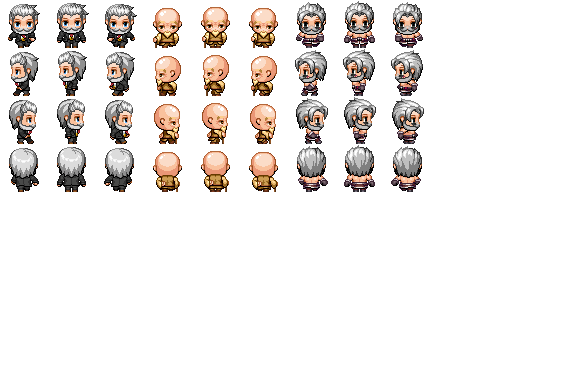
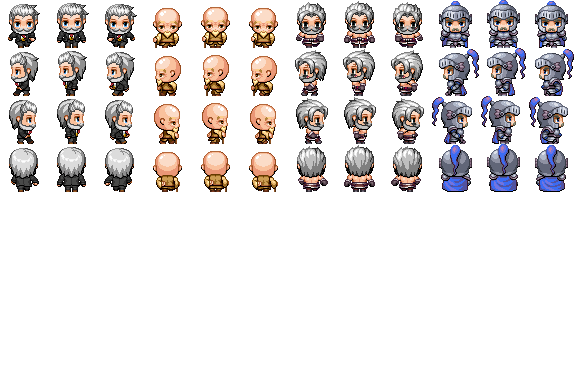
added Tellurian Knight/Soldier actors
added credit for Haydeos and ct_bolt

Changed region(s): [[0.75, 0.0, 1.0, 0.5]]

diff --git a/js/plugins.js b/js/plugins.js
@@ -123,7 +123,7 @@ var $plugins =
 {"name":"YEP_CommonEventMenu","status":true,"description":"v1.04 This plugin allows the creation of windows to call\ncommon events with.","parameters":{"---Defaults---":"","Default Icon":"188","Default Help":"Use <Help Description> comment tag to add a help description.","Default Subtext":"Subtext here!","Default Cancel Event":"0","---Main Settings---":"","Window X":"0","Window Y":"this.fittingHeight(2)","Window Width":"Graphics.boxWidth / 2","Window Height":"Graphics.boxHeight - this.fittingHeight(2)","Window Columns":"1","Window Opacity":"255","---Help Settings---":"","Show Help":"true","Help X":"0","Help Y":"0","Help Width":"Graphics.boxWidth","Help Height":"this.fittingHeight(2)","Help Opacity":"255","---Picture Settings---":"","Show Picture":"true","Picture X":"Graphics.boxWidth / 2","Picture Y":"this.fittingHeight(2)","Picture Width":"Graphics.boxWidth / 2","Picture Height":"this.fittingHeight(10)","Picture Opacity":"255","---Subtext Settings---":"","Show Subtext":"true","Subtext X":"Graphics.boxWidth / 2","Subtext Y":"Graphics.boxHeight - height","Subtext Width":"Graphics.boxWidth / 2","Subtext Height":"Graphics.boxHeight - this.fittingHeight(2) - this.fittingHeight(10)","Subtext Opacity":"255"}},
 {"name":"YEP_X_CEMSetupPack1","status":true,"description":"v1.00 (Requires YEP_CommonEventMenu.js) Adds more setups\nto use with the Common Event Menu.","parameters":{}},
 {"name":"YEP_X_CEMSetupPack2","status":true,"description":"v1.01 (Requires YEP_CommonEventMenu.js) Adds more setups\nto use with the Common Event Menu.","parameters":{}},
-{"name":"YEP_CreditsPage","status":true,"description":"v1.02 Adds a 'Credits' command to the title screen that\r\nwill take the player to a credits scene.","parameters":{"---General---":"","Command Name":"Credits","---Credit Lines---":"","Line 1 Text":"(Pressing SPACE on some entries redirects you to the source.)","Line 1 URL":"","Line 2 Text":"\\c[14]--- Trail Engineers ---","Line 2 URL":"","Line 3 Text":"\\c[4]AP / NoLongerLucky\\c[0] - Project Lead, Programmer, Musician","Line 3 URL":"https://linktr.ee/aponthebeat","Line 4 Text":"\\c[4]bronden\\c[0] - Original Concepts, Bug Hunter","Line 4 URL":"https://medal.tv/users/6971131","Line 5 Text":"","Line 5 URL":"","Line 6 Text":"","Line 6 URL":"","Line 7 Text":"","Line 7 URL":"","Line 8 Text":"","Line 8 URL":"","Line 9 Text":"","Line 9 URL":"","Line 10 Text":"","Line 10 URL":"","Line 11 Text":"\\c[14]--- Graphics ---","Line 11 URL":"","Line 12 Text":"\\c[4]Chalkdust","Line 12 URL":"https://forums.rpgmakerweb.com/index.php?threads/chalkdust-resources.47335/","Line 13 Text":"\\c[4]Aleph Null","Line 13 URL":"https://forums.rpgmakerweb.com/index.php?threads/aleph-nulls-resources-update-7-3-16-weapon-icons.63331/","Line 14 Text":"\\c[4]KaiWeWi","Line 14 URL":"https://forums.rpgmakerweb.com/index.php?threads/kais-resources-for-mv.78751/","Line 15 Text":"\\c[4]whtdragon","Line 15 URL":"https://forums.rpgmakerweb.com/index.php?threads/whtdragons-animals-and-running-horses-now-with-more-dragons.53552/","Line 16 Text":"\\c[4]Avery","Line 16 URL":"https://forums.rpgmakerweb.com/index.php?threads/avys-mv-stuff.53317/","Line 17 Text":"\\c[4]hiddenone","Line 17 URL":"https://www.hiddenone-sprites.com/other-mv-resources.html","Line 18 Text":"\\c[4]Bokou","Line 18 URL":"https://forums.rpgmakerweb.com/index.php?threads/bokous-freesources-added-gothic-tileset.48613/","Line 19 Text":"\\c[4]RavenBlackbird","Line 19 URL":"https://forums.rpgmakerweb.com/index.php?threads/sprited-sv_enemies.60465/","Line 20 Text":"\\c[4]PandaMaru","Line 20 URL":"https://forums.rpgmakerweb.com/index.php?threads/marus-mv-bits.46811/","Line 21 Text":"\\c[4]byBibo","Line 21 URL":"https://forums.rpgmakerweb.com/index.php?threads/bybibos-special-packs-1-christmas-pack-update-1.53582/","Line 22 Text":"\\c[4]Thalzon","Line 22 URL":"https://forums.rpgmakerweb.com/index.php?threads/thalzons-mv-battlers.46685/","Line 23 Text":"","Line 23 URL":"","Line 24 Text":"","Line 24 URL":"","Line 25 Text":"","Line 25 URL":"","Line 26 Text":"","Line 26 URL":"","Line 27 Text":"","Line 27 URL":"","Line 28 Text":"","Line 28 URL":"","Line 29 Text":"","Line 29 URL":"","Line 30 Text":"","Line 30 URL":"","Line 31 Text":"","Line 31 URL":"","Line 32 Text":"","Line 32 URL":"","Line 33 Text":"","Line 33 URL":"","Line 34 Text":"","Line 34 URL":"","Line 35 Text":"","Line 35 URL":"","Line 36 Text":"","Line 36 URL":"","Line 37 Text":"","Line 37 URL":"","Line 38 Text":"","Line 38 URL":"","Line 39 Text":"","Line 39 URL":"","Line 40 Text":"","Line 40 URL":"","Line 41 Text":"\\c[14]--- Plugins ---","Line 41 URL":"","Line 42 Text":"\\c[4]Yanfly\\c[0]","Line 42 URL":"http://yanfly.moe","Line 43 Text":"\\c[4]Fallen Angel Olivia","Line 43 URL":"https://fallenangelolivia.itch.io","Line 44 Text":"\\c[4]DreamX","Line 44 URL":"https://raw.githubusercontent.com/DreamXRMMV/Rpg-Maker-MV/master/DreamX_BattleSE.js","Line 45 Text":"\\c[4]Mr. Trivel","Line 45 URL":"https://mrtrivelrpg.wordpress.com/","Line 46 Text":"\\c[4]Azel","Line 46 URL":"https://forums.rpgmakerweb.com/index.php?threads/lgp-better-damage-popup.97679/","Line 47 Text":"\\c[4]Casper Gaming","Line 47 URL":"http://www.caspergaming.com/dev/cgmv/","Line 48 Text":"\\c[4]SumRndmDde","Line 48 URL":"http://sumrndm.site","Line 49 Text":"\\c[4]Melosx","Line 49 URL":"https://forums.rpgmakerweb.com/index.php?threads/msx-alphabetical-sort.73991/","Line 50 Text":"\\c[4]Moghunter (Atelier RGSS)","Line 50 URL":"https://atelierrgss.wordpress.com/","Line 51 Text":"\\c[4]RPG Maker Irina","Line 51 URL":"https://atelieririna.itch.io","Line 52 Text":"\\c[4]Galv","Line 52 URL":"https://galvs-scripts.com/","Line 53 Text":"\\c[4]Sparckman","Line 53 URL":"https://sparckmantutorials.weebly.com/rpg-maker.html","Line 54 Text":"\\c[4]Neon Black","Line 54 URL":"https://forums.rpgmakerweb.com/index.php?threads/neon-blacks-large-sprite-fix.50274/","Line 55 Text":"\\c[4]Shaz","Line 55 URL":"https://forums.rpgmakerweb.com/index.php?threads/neon-blacks-large-sprite-fix.50274/","Line 56 Text":"\\c[4]Aloe Guvner","Line 56 URL":"https://forums.rpgmakerweb.com/index.php?threads/yep-extensions-by-aloe-guvner.95141/","Line 57 Text":"\\c[4]Boris \"Blizzard\" Mikić","Line 57 URL":"https://forums.rpgmakerweb.com/index.php?threads/ultra-mode-7.94100/","Line 58 Text":"\\c[4]Tsumio","Line 58 URL":"https://forums.rpgmakerweb.com/index.php?threads/skippartycommand.102821/","Line 59 Text":"\\c[4]Azel","Line 59 URL":"https://forums.rpgmakerweb.com/index.php?threads/lgp-better-damage-popup.97679/","Line 60 Text":"\\c[4]AceOfAces","Line 60 URL":"https://forums.rpgmakerweb.com/index.php?threads/hp-color-controller.74386/","Line 61 Text":"\\c[4]Masked","Line 61 URL":"https://forums.rpgmakerweb.com/index.php?threads/mbs-sound-emittance.52718/","Line 62 Text":"\\c[4]Hudell","Line 62 URL":"https://hudell.com/","Line 63 Text":"\\c[4]YoraeRasante","Line 63 URL":"https://forums.rpgmakerweb.com/index.php?threads/changing-gauges.69200/post-657427","Line 64 Text":"","Line 64 URL":"","Line 65 Text":"","Line 65 URL":"","Line 66 Text":"","Line 66 URL":"","Line 67 Text":"","Line 67 URL":"","Line 68 Text":"","Line 68 URL":"","Line 69 Text":"","Line 69 URL":"","Line 70 Text":"","Line 70 URL":"","Line 71 Text":"\\c[14]--- Recognized Contributors ---","Line 71 URL":"","Line 72 Text":"Thanks to \\c[4]everyone who contributed\\c[0]!","Line 72 URL":"","Line 73 Text":"\\c[4]ApocalypseGamer1\\c[0] - Musician, Ex-Artist","Line 73 URL":"https://www.youtube.com/channel/UCKRS50y0u8u6r7OymPBUt_A","Line 74 Text":"\\c[4]ascent_\\c[0] - Linux Port","Line 74 URL":"https://www.youtube.com/channel/UCMwZYN38lXBn_XzUuNmgvAw","Line 75 Text":"","Line 75 URL":"","Line 76 Text":"","Line 76 URL":"","Line 77 Text":"","Line 77 URL":"","Line 78 Text":"","Line 78 URL":"","Line 79 Text":"","Line 79 URL":"","Line 80 Text":"","Line 80 URL":"","Line 81 Text":"","Line 81 URL":"","Line 82 Text":"","Line 82 URL":"","Line 83 Text":"","Line 83 URL":"","Line 84 Text":"","Line 84 URL":"","Line 85 Text":"","Line 85 URL":"","Line 86 Text":"","Line 86 URL":"","Line 87 Text":"","Line 87 URL":"","Line 88 Text":"","Line 88 URL":"","Line 89 Text":"","Line 89 URL":"","Line 90 Text":"","Line 90 URL":"","Line 91 Text":"\\c[14]--- Acknowledgements ---","Line 91 URL":"","Line 92 Text":"Thanks to \\c[4]everyone who helped test the game\\c[0]!","Line 92 URL":"","Line 93 Text":"Check out our \\c[16]Discord\\c[0] at \\c[4]https://discord.gg/zYRjnpSKBx","Line 93 URL":"https://discord.gg/zYRjnpSKBx","Line 94 Text":"The \\c[16]Discord\\c[0] is the best way to reach the developers and chat with the community.","Line 94 URL":"","Line 95 Text":"","Line 95 URL":"","Line 96 Text":"","Line 96 URL":"","Line 97 Text":"","Line 97 URL":"","Line 98 Text":"","Line 98 URL":"","Line 99 Text":"","Line 99 URL":"","Line 100 Text":"","Line 100 URL":"","Line 101 Text":"","Line 101 URL":"","Line 102 Text":"","Line 102 URL":"","Line 103 Text":"","Line 103 URL":"","Line 104 Text":"","Line 104 URL":"","Line 105 Text":"","Line 105 URL":"","Line 106 Text":"","Line 106 URL":"","Line 107 Text":"","Line 107 URL":"","Line 108 Text":"","Line 108 URL":"","Line 109 Text":"","Line 109 URL":"","Line 110 Text":"","Line 110 URL":"","Line 111 Text":"","Line 111 URL":"","Line 112 Text":"","Line 112 URL":"","Line 113 Text":"","Line 113 URL":"","Line 114 Text":"","Line 114 URL":"","Line 115 Text":"","Line 115 URL":"","Line 116 Text":"","Line 116 URL":"","Line 117 Text":"","Line 117 URL":"","Line 118 Text":"","Line 118 URL":"","Line 119 Text":"","Line 119 URL":"","Line 120 Text":"","Line 120 URL":"","Line 121 Text":"","Line 121 URL":"","Line 122 Text":"","Line 122 URL":"","Line 123 Text":"","Line 123 URL":"","Line 124 Text":"","Line 124 URL":"","Line 125 Text":"","Line 125 URL":"","Line 126 Text":"","Line 126 URL":"","Line 127 Text":"","Line 127 URL":"","Line 128 Text":"","Line 128 URL":"","Line 129 Text":"","Line 129 URL":"","Line 130 Text":"","Line 130 URL":"","Line 131 Text":"","Line 131 URL":"","Line 132 Text":"","Line 132 URL":"","Line 133 Text":"","Line 133 URL":"","Line 134 Text":"","Line 134 URL":"","Line 135 Text":"","Line 135 URL":"","Line 136 Text":"","Line 136 URL":"","Line 137 Text":"","Line 137 URL":"","Line 138 Text":"","Line 138 URL":"","Line 139 Text":"","Line 139 URL":"","Line 140 Text":"","Line 140 URL":"","Line 141 Text":"","Line 141 URL":"","Line 142 Text":"","Line 142 URL":"","Line 143 Text":"","Line 143 URL":"","Line 144 Text":"","Line 144 URL":"","Line 145 Text":"","Line 145 URL":"","Line 146 Text":"","Line 146 URL":"","Line 147 Text":"","Line 147 URL":"","Line 148 Text":"","Line 148 URL":"","Line 149 Text":"","Line 149 URL":"","Line 150 Text":"","Line 150 URL":"","Line 151 Text":"","Line 151 URL":"","Line 152 Text":"","Line 152 URL":"","Line 153 Text":"","Line 153 URL":"","Line 154 Text":"","Line 154 URL":"","Line 155 Text":"","Line 155 URL":"","Line 156 Text":"","Line 156 URL":"","Line 157 Text":"","Line 157 URL":"","Line 158 Text":"","Line 158 URL":"","Line 159 Text":"","Line 159 URL":"","Line 160 Text":"","Line 160 URL":"","Line 161 Text":"","Line 161 URL":"","Line 162 Text":"","Line 162 URL":"","Line 163 Text":"","Line 163 URL":"","Line 164 Text":"","Line 164 URL":"","Line 165 Text":"","Line 165 URL":"","Line 166 Text":"","Line 166 URL":"","Line 167 Text":"","Line 167 URL":"","Line 168 Text":"","Line 168 URL":"","Line 169 Text":"","Line 169 URL":"","Line 170 Text":"","Line 170 URL":"","Line 171 Text":"","Line 171 URL":"","Line 172 Text":"","Line 172 URL":"","Line 173 Text":"","Line 173 URL":"","Line 174 Text":"","Line 174 URL":"","Line 175 Text":"","Line 175 URL":"","Line 176 Text":"","Line 176 URL":"","Line 177 Text":"","Line 177 URL":"","Line 178 Text":"","Line 178 URL":"","Line 179 Text":"","Line 179 URL":"","Line 180 Text":"","Line 180 URL":"","Line 181 Text":"","Line 181 URL":"","Line 182 Text":"","Line 182 URL":"","Line 183 Text":"","Line 183 URL":"","Line 184 Text":"","Line 184 URL":"","Line 185 Text":"","Line 185 URL":"","Line 186 Text":"","Line 186 URL":"","Line 187 Text":"","Line 187 URL":"","Line 188 Text":"","Line 188 URL":"","Line 189 Text":"","Line 189 URL":"","Line 190 Text":"","Line 190 URL":"","Line 191 Text":"","Line 191 URL":"","Line 192 Text":"","Line 192 URL":"","Line 193 Text":"","Line 193 URL":"","Line 194 Text":"","Line 194 URL":"","Line 195 Text":"","Line 195 URL":"","Line 196 Text":"","Line 196 URL":"","Line 197 Text":"","Line 197 URL":"","Line 198 Text":"","Line 198 URL":"","Line 199 Text":"","Line 199 URL":"","Line 200 Text":"","Line 200 URL":"","Line 201 Text":"","Line 201 URL":"","Line 202 Text":"","Line 202 URL":"","Line 203 Text":"","Line 203 URL":"","Line 204 Text":"","Line 204 URL":"","Line 205 Text":"","Line 205 URL":"","Line 206 Text":"","Line 206 URL":"","Line 207 Text":"","Line 207 URL":"","Line 208 Text":"","Line 208 URL":"","Line 209 Text":"","Line 209 URL":"","Line 210 Text":"","Line 210 URL":"","Line 211 Text":"","Line 211 URL":"","Line 212 Text":"","Line 212 URL":"","Line 213 Text":"","Line 213 URL":"","Line 214 Text":"","Line 214 URL":"","Line 215 Text":"","Line 215 URL":"","Line 216 Text":"","Line 216 URL":"","Line 217 Text":"","Line 217 URL":"","Line 218 Text":"","Line 218 URL":"","Line 219 Text":"","Line 219 URL":"","Line 220 Text":"","Line 220 URL":"","Line 221 Text":"","Line 221 URL":"","Line 222 Text":"","Line 222 URL":"","Line 223 Text":"","Line 223 URL":"","Line 224 Text":"","Line 224 URL":"","Line 225 Text":"","Line 225 URL":"","Line 226 Text":"","Line 226 URL":"","Line 227 Text":"","Line 227 URL":"","Line 228 Text":"","Line 228 URL":"","Line 229 Text":"","Line 229 URL":"","Line 230 Text":"","Line 230 URL":"","Line 231 Text":"","Line 231 URL":"","Line 232 Text":"","Line 232 URL":"","Line 233 Text":"","Line 233 URL":"","Line 234 Text":"","Line 234 URL":"","Line 235 Text":"","Line 235 URL":"","Line 236 Text":"","Line 236 URL":"","Line 237 Text":"","Line 237 URL":"","Line 238 Text":"","Line 238 URL":"","Line 239 Text":"","Line 239 URL":"","Line 240 Text":"","Line 240 URL":"","Line 241 Text":"","Line 241 URL":"","Line 242 Text":"","Line 242 URL":"","Line 243 Text":"","Line 243 URL":"","Line 244 Text":"","Line 244 URL":"","Line 245 Text":"","Line 245 URL":"","Line 246 Text":"","Line 246 URL":"","Line 247 Text":"","Line 247 URL":"","Line 248 Text":"","Line 248 URL":"","Line 249 Text":"","Line 249 URL":"","Line 250 Text":"","Line 250 URL":"","Line 251 Text":"","Line 251 URL":"","Line 252 Text":"","Line 252 URL":"","Line 253 Text":"","Line 253 URL":"","Line 254 Text":"","Line 254 URL":"","Line 255 Text":"","Line 255 URL":"","Line 256 Text":"","Line 256 URL":"","Line 257 Text":"","Line 257 URL":"","Line 258 Text":"","Line 258 URL":"","Line 259 Text":"","Line 259 URL":"","Line 260 Text":"","Line 260 URL":"","Line 261 Text":"","Line 261 URL":"","Line 262 Text":"","Line 262 URL":"","Line 263 Text":"","Line 263 URL":"","Line 264 Text":"","Line 264 URL":"","Line 265 Text":"","Line 265 URL":"","Line 266 Text":"","Line 266 URL":"","Line 267 Text":"","Line 267 URL":"","Line 268 Text":"","Line 268 URL":"","Line 269 Text":"","Line 269 URL":"","Line 270 Text":"","Line 270 URL":"","Line 271 Text":"","Line 271 URL":"","Line 272 Text":"","Line 272 URL":"","Line 273 Text":"","Line 273 URL":"","Line 274 Text":"","Line 274 URL":"","Line 275 Text":"","Line 275 URL":"","Line 276 Text":"","Line 276 URL":"","Line 277 Text":"","Line 277 URL":"","Line 278 Text":"","Line 278 URL":"","Line 279 Text":"","Line 279 URL":"","Line 280 Text":"","Line 280 URL":"","Line 281 Text":"","Line 281 URL":"","Line 282 Text":"","Line 282 URL":"","Line 283 Text":"","Line 283 URL":"","Line 284 Text":"","Line 284 URL":"","Line 285 Text":"","Line 285 URL":"","Line 286 Text":"","Line 286 URL":"","Line 287 Text":"","Line 287 URL":"","Line 288 Text":"","Line 288 URL":"","Line 289 Text":"","Line 289 URL":"","Line 290 Text":"","Line 290 URL":"","Line 291 Text":"","Line 291 URL":"","Line 292 Text":"","Line 292 URL":"","Line 293 Text":"","Line 293 URL":"","Line 294 Text":"","Line 294 URL":"","Line 295 Text":"","Line 295 URL":"","Line 296 Text":"","Line 296 URL":"","Line 297 Text":"","Line 297 URL":"","Line 298 Text":"","Line 298 URL":"","Line 299 Text":"","Line 299 URL":"","Line 300 Text":"","Line 300 URL":""}},
+{"name":"YEP_CreditsPage","status":true,"description":"v1.02 Adds a 'Credits' command to the title screen that\r\nwill take the player to a credits scene.","parameters":{"---General---":"","Command Name":"Credits","---Credit Lines---":"","Line 1 Text":"(Pressing SPACE on some entries redirects you to the source.)","Line 1 URL":"","Line 2 Text":"\\c[14]--- Trail Engineers ---","Line 2 URL":"","Line 3 Text":"\\c[4]AP / NoLongerLucky\\c[0] - Project Lead, Programmer, Musician","Line 3 URL":"https://linktr.ee/aponthebeat","Line 4 Text":"\\c[4]bronden\\c[0] - Original Concepts, Bug Hunter","Line 4 URL":"https://medal.tv/users/6971131","Line 5 Text":"","Line 5 URL":"","Line 6 Text":"","Line 6 URL":"","Line 7 Text":"","Line 7 URL":"","Line 8 Text":"","Line 8 URL":"","Line 9 Text":"","Line 9 URL":"","Line 10 Text":"","Line 10 URL":"","Line 11 Text":"\\c[14]--- Graphics ---","Line 11 URL":"","Line 12 Text":"\\c[4]Chalkdust","Line 12 URL":"https://forums.rpgmakerweb.com/index.php?threads/chalkdust-resources.47335/","Line 13 Text":"\\c[4]Aleph Null","Line 13 URL":"https://forums.rpgmakerweb.com/index.php?threads/aleph-nulls-resources-update-7-3-16-weapon-icons.63331/","Line 14 Text":"\\c[4]KaiWeWi","Line 14 URL":"https://forums.rpgmakerweb.com/index.php?threads/kais-resources-for-mv.78751/","Line 15 Text":"\\c[4]whtdragon","Line 15 URL":"https://forums.rpgmakerweb.com/index.php?threads/whtdragons-animals-and-running-horses-now-with-more-dragons.53552/","Line 16 Text":"\\c[4]Avery","Line 16 URL":"https://forums.rpgmakerweb.com/index.php?threads/avys-mv-stuff.53317/","Line 17 Text":"\\c[4]hiddenone","Line 17 URL":"https://www.hiddenone-sprites.com/other-mv-resources.html","Line 18 Text":"\\c[4]Bokou","Line 18 URL":"https://forums.rpgmakerweb.com/index.php?threads/bokous-freesources-added-gothic-tileset.48613/","Line 19 Text":"\\c[4]RavenBlackbird","Line 19 URL":"https://forums.rpgmakerweb.com/index.php?threads/sprited-sv_enemies.60465/","Line 20 Text":"\\c[4]PandaMaru","Line 20 URL":"https://forums.rpgmakerweb.com/index.php?threads/marus-mv-bits.46811/","Line 21 Text":"\\c[4]byBibo","Line 21 URL":"https://forums.rpgmakerweb.com/index.php?threads/bybibos-special-packs-1-christmas-pack-update-1.53582/","Line 22 Text":"\\c[4]Thalzon","Line 22 URL":"https://forums.rpgmakerweb.com/index.php?threads/thalzons-mv-battlers.46685/","Line 23 Text":"\\c[4]Haydeos","Line 23 URL":"https://forums.rpgmakerweb.com/index.php?threads/materials-by-haydeos.47400/","Line 24 Text":"\\c[4]ct_bolt","Line 24 URL":"https://forums.rpgmakerweb.com/index.php?threads/looking-for-sv-actor-of-people3_7-the-captain-mv.121886/","Line 25 Text":"","Line 25 URL":"","Line 26 Text":"","Line 26 URL":"","Line 27 Text":"","Line 27 URL":"","Line 28 Text":"","Line 28 URL":"","Line 29 Text":"","Line 29 URL":"","Line 30 Text":"","Line 30 URL":"","Line 31 Text":"","Line 31 URL":"","Line 32 Text":"","Line 32 URL":"","Line 33 Text":"","Line 33 URL":"","Line 34 Text":"","Line 34 URL":"","Line 35 Text":"","Line 35 URL":"","Line 36 Text":"","Line 36 URL":"","Line 37 Text":"","Line 37 URL":"","Line 38 Text":"","Line 38 URL":"","Line 39 Text":"","Line 39 URL":"","Line 40 Text":"","Line 40 URL":"","Line 41 Text":"\\c[14]--- Plugins ---","Line 41 URL":"","Line 42 Text":"\\c[4]Yanfly\\c[0]","Line 42 URL":"http://yanfly.moe","Line 43 Text":"\\c[4]Fallen Angel Olivia","Line 43 URL":"https://fallenangelolivia.itch.io","Line 44 Text":"\\c[4]DreamX","Line 44 URL":"https://raw.githubusercontent.com/DreamXRMMV/Rpg-Maker-MV/master/DreamX_BattleSE.js","Line 45 Text":"\\c[4]Mr. Trivel","Line 45 URL":"https://mrtrivelrpg.wordpress.com/","Line 46 Text":"\\c[4]Azel","Line 46 URL":"https://forums.rpgmakerweb.com/index.php?threads/lgp-better-damage-popup.97679/","Line 47 Text":"\\c[4]Casper Gaming","Line 47 URL":"http://www.caspergaming.com/dev/cgmv/","Line 48 Text":"\\c[4]SumRndmDde","Line 48 URL":"http://sumrndm.site","Line 49 Text":"\\c[4]Melosx","Line 49 URL":"https://forums.rpgmakerweb.com/index.php?threads/msx-alphabetical-sort.73991/","Line 50 Text":"\\c[4]Moghunter (Atelier RGSS)","Line 50 URL":"https://atelierrgss.wordpress.com/","Line 51 Text":"\\c[4]RPG Maker Irina","Line 51 URL":"https://atelieririna.itch.io","Line 52 Text":"\\c[4]Galv","Line 52 URL":"https://galvs-scripts.com/","Line 53 Text":"\\c[4]Sparckman","Line 53 URL":"https://sparckmantutorials.weebly.com/rpg-maker.html","Line 54 Text":"\\c[4]Neon Black","Line 54 URL":"https://forums.rpgmakerweb.com/index.php?threads/neon-blacks-large-sprite-fix.50274/","Line 55 Text":"\\c[4]Shaz","Line 55 URL":"https://forums.rpgmakerweb.com/index.php?threads/neon-blacks-large-sprite-fix.50274/","Line 56 Text":"\\c[4]Aloe Guvner","Line 56 URL":"https://forums.rpgmakerweb.com/index.php?threads/yep-extensions-by-aloe-guvner.95141/","Line 57 Text":"\\c[4]Boris \"Blizzard\" Mikić","Line 57 URL":"https://forums.rpgmakerweb.com/index.php?threads/ultra-mode-7.94100/","Line 58 Text":"\\c[4]Tsumio","Line 58 URL":"https://forums.rpgmakerweb.com/index.php?threads/skippartycommand.102821/","Line 59 Text":"\\c[4]Azel","Line 59 URL":"https://forums.rpgmakerweb.com/index.php?threads/lgp-better-damage-popup.97679/","Line 60 Text":"\\c[4]AceOfAces","Line 60 URL":"https://forums.rpgmakerweb.com/index.php?threads/hp-color-controller.74386/","Line 61 Text":"\\c[4]Masked","Line 61 URL":"https://forums.rpgmakerweb.com/index.php?threads/mbs-sound-emittance.52718/","Line 62 Text":"\\c[4]Hudell","Line 62 URL":"https://hudell.com/","Line 63 Text":"\\c[4]YoraeRasante","Line 63 URL":"https://forums.rpgmakerweb.com/index.php?threads/changing-gauges.69200/post-657427","Line 64 Text":"","Line 64 URL":"","Line 65 Text":"","Line 65 URL":"","Line 66 Text":"","Line 66 URL":"","Line 67 Text":"","Line 67 URL":"","Line 68 Text":"","Line 68 URL":"","Line 69 Text":"","Line 69 URL":"","Line 70 Text":"","Line 70 URL":"","Line 71 Text":"\\c[14]--- Recognized Contributors ---","Line 71 URL":"","Line 72 Text":"Thanks to \\c[4]everyone who contributed\\c[0]!","Line 72 URL":"","Line 73 Text":"\\c[4]ApocalypseGamer1\\c[0] - Musician, Ex-Artist","Line 73 URL":"https://www.youtube.com/channel/UCKRS50y0u8u6r7OymPBUt_A","Line 74 Text":"\\c[4]ascent_\\c[0] - Linux Port","Line 74 URL":"https://www.youtube.com/channel/UCMwZYN38lXBn_XzUuNmgvAw","Line 75 Text":"","Line 75 URL":"","Line 76 Text":"","Line 76 URL":"","Line 77 Text":"","Line 77 URL":"","Line 78 Text":"","Line 78 URL":"","Line 79 Text":"","Line 79 URL":"","Line 80 Text":"","Line 80 URL":"","Line 81 Text":"","Line 81 URL":"","Line 82 Text":"","Line 82 URL":"","Line 83 Text":"","Line 83 URL":"","Line 84 Text":"","Line 84 URL":"","Line 85 Text":"","Line 85 URL":"","Line 86 Text":"","Line 86 URL":"","Line 87 Text":"","Line 87 URL":"","Line 88 Text":"","Line 88 URL":"","Line 89 Text":"","Line 89 URL":"","Line 90 Text":"","Line 90 URL":"","Line 91 Text":"\\c[14]--- Acknowledgements ---","Line 91 URL":"","Line 92 Text":"Thanks to \\c[4]everyone who helped test the game\\c[0]!","Line 92 URL":"","Line 93 Text":"Check out our \\c[16]Discord\\c[0] at \\c[4]https://discord.gg/zYRjnpSKBx","Line 93 URL":"https://discord.gg/zYRjnpSKBx","Line 94 Text":"The \\c[16]Discord\\c[0] is the best way to reach the developers and chat with the community.","Line 94 URL":"","Line 95 Text":"","Line 95 URL":"","Line 96 Text":"","Line 96 URL":"","Line 97 Text":"","Line 97 URL":"","Line 98 Text":"","Line 98 URL":"","Line 99 Text":"","Line 99 URL":"","Line 100 Text":"","Line 100 URL":"","Line 101 Text":"","Line 101 URL":"","Line 102 Text":"","Line 102 URL":"","Line 103 Text":"","Line 103 URL":"","Line 104 Text":"","Line 104 URL":"","Line 105 Text":"","Line 105 URL":"","Line 106 Text":"","Line 106 URL":"","Line 107 Text":"","Line 107 URL":"","Line 108 Text":"","Line 108 URL":"","Line 109 Text":"","Line 109 URL":"","Line 110 Text":"","Line 110 URL":"","Line 111 Text":"","Line 111 URL":"","Line 112 Text":"","Line 112 URL":"","Line 113 Text":"","Line 113 URL":"","Line 114 Text":"","Line 114 URL":"","Line 115 Text":"","Line 115 URL":"","Line 116 Text":"","Line 116 URL":"","Line 117 Text":"","Line 117 URL":"","Line 118 Text":"","Line 118 URL":"","Line 119 Text":"","Line 119 URL":"","Line 120 Text":"","Line 120 URL":"","Line 121 Text":"","Line 121 URL":"","Line 122 Text":"","Line 122 URL":"","Line 123 Text":"","Line 123 URL":"","Line 124 Text":"","Line 124 URL":"","Line 125 Text":"","Line 125 URL":"","Line 126 Text":"","Line 126 URL":"","Line 127 Text":"","Line 127 URL":"","Line 128 Text":"","Line 128 URL":"","Line 129 Text":"","Line 129 URL":"","Line 130 Text":"","Line 130 URL":"","Line 131 Text":"","Line 131 URL":"","Line 132 Text":"","Line 132 URL":"","Line 133 Text":"","Line 133 URL":"","Line 134 Text":"","Line 134 URL":"","Line 135 Text":"","Line 135 URL":"","Line 136 Text":"","Line 136 URL":"","Line 137 Text":"","Line 137 URL":"","Line 138 Text":"","Line 138 URL":"","Line 139 Text":"","Line 139 URL":"","Line 140 Text":"","Line 140 URL":"","Line 141 Text":"","Line 141 URL":"","Line 142 Text":"","Line 142 URL":"","Line 143 Text":"","Line 143 URL":"","Line 144 Text":"","Line 144 URL":"","Line 145 Text":"","Line 145 URL":"","Line 146 Text":"","Line 146 URL":"","Line 147 Text":"","Line 147 URL":"","Line 148 Text":"","Line 148 URL":"","Line 149 Text":"","Line 149 URL":"","Line 150 Text":"","Line 150 URL":"","Line 151 Text":"","Line 151 URL":"","Line 152 Text":"","Line 152 URL":"","Line 153 Text":"","Line 153 URL":"","Line 154 Text":"","Line 154 URL":"","Line 155 Text":"","Line 155 URL":"","Line 156 Text":"","Line 156 URL":"","Line 157 Text":"","Line 157 URL":"","Line 158 Text":"","Line 158 URL":"","Line 159 Text":"","Line 159 URL":"","Line 160 Text":"","Line 160 URL":"","Line 161 Text":"","Line 161 URL":"","Line 162 Text":"","Line 162 URL":"","Line 163 Text":"","Line 163 URL":"","Line 164 Text":"","Line 164 URL":"","Line 165 Text":"","Line 165 URL":"","Line 166 Text":"","Line 166 URL":"","Line 167 Text":"","Line 167 URL":"","Line 168 Text":"","Line 168 URL":"","Line 169 Text":"","Line 169 URL":"","Line 170 Text":"","Line 170 URL":"","Line 171 Text":"","Line 171 URL":"","Line 172 Text":"","Line 172 URL":"","Line 173 Text":"","Line 173 URL":"","Line 174 Text":"","Line 174 URL":"","Line 175 Text":"","Line 175 URL":"","Line 176 Text":"","Line 176 URL":"","Line 177 Text":"","Line 177 URL":"","Line 178 Text":"","Line 178 URL":"","Line 179 Text":"","Line 179 URL":"","Line 180 Text":"","Line 180 URL":"","Line 181 Text":"","Line 181 URL":"","Line 182 Text":"","Line 182 URL":"","Line 183 Text":"","Line 183 URL":"","Line 184 Text":"","Line 184 URL":"","Line 185 Text":"","Line 185 URL":"","Line 186 Text":"","Line 186 URL":"","Line 187 Text":"","Line 187 URL":"","Line 188 Text":"","Line 188 URL":"","Line 189 Text":"","Line 189 URL":"","Line 190 Text":"","Line 190 URL":"","Line 191 Text":"","Line 191 URL":"","Line 192 Text":"","Line 192 URL":"","Line 193 Text":"","Line 193 URL":"","Line 194 Text":"","Line 194 URL":"","Line 195 Text":"","Line 195 URL":"","Line 196 Text":"","Line 196 URL":"","Line 197 Text":"","Line 197 URL":"","Line 198 Text":"","Line 198 URL":"","Line 199 Text":"","Line 199 URL":"","Line 200 Text":"","Line 200 URL":"","Line 201 Text":"","Line 201 URL":"","Line 202 Text":"","Line 202 URL":"","Line 203 Text":"","Line 203 URL":"","Line 204 Text":"","Line 204 URL":"","Line 205 Text":"","Line 205 URL":"","Line 206 Text":"","Line 206 URL":"","Line 207 Text":"","Line 207 URL":"","Line 208 Text":"","Line 208 URL":"","Line 209 Text":"","Line 209 URL":"","Line 210 Text":"","Line 210 URL":"","Line 211 Text":"","Line 211 URL":"","Line 212 Text":"","Line 212 URL":"","Line 213 Text":"","Line 213 URL":"","Line 214 Text":"","Line 214 URL":"","Line 215 Text":"","Line 215 URL":"","Line 216 Text":"","Line 216 URL":"","Line 217 Text":"","Line 217 URL":"","Line 218 Text":"","Line 218 URL":"","Line 219 Text":"","Line 219 URL":"","Line 220 Text":"","Line 220 URL":"","Line 221 Text":"","Line 221 URL":"","Line 222 Text":"","Line 222 URL":"","Line 223 Text":"","Line 223 URL":"","Line 224 Text":"","Line 224 URL":"","Line 225 Text":"","Line 225 URL":"","Line 226 Text":"","Line 226 URL":"","Line 227 Text":"","Line 227 URL":"","Line 228 Text":"","Line 228 URL":"","Line 229 Text":"","Line 229 URL":"","Line 230 Text":"","Line 230 URL":"","Line 231 Text":"","Line 231 URL":"","Line 232 Text":"","Line 232 URL":"","Line 233 Text":"","Line 233 URL":"","Line 234 Text":"","Line 234 URL":"","Line 235 Text":"","Line 235 URL":"","Line 236 Text":"","Line 236 URL":"","Line 237 Text":"","Line 237 URL":"","Line 238 Text":"","Line 238 URL":"","Line 239 Text":"","Line 239 URL":"","Line 240 Text":"","Line 240 URL":"","Line 241 Text":"","Line 241 URL":"","Line 242 Text":"","Line 242 URL":"","Line 243 Text":"","Line 243 URL":"","Line 244 Text":"","Line 244 URL":"","Line 245 Text":"","Line 245 URL":"","Line 246 Text":"","Line 246 URL":"","Line 247 Text":"","Line 247 URL":"","Line 248 Text":"","Line 248 URL":"","Line 249 Text":"","Line 249 URL":"","Line 250 Text":"","Line 250 URL":"","Line 251 Text":"","Line 251 URL":"","Line 252 Text":"","Line 252 URL":"","Line 253 Text":"","Line 253 URL":"","Line 254 Text":"","Line 254 URL":"","Line 255 Text":"","Line 255 URL":"","Line 256 Text":"","Line 256 URL":"","Line 257 Text":"","Line 257 URL":"","Line 258 Text":"","Line 258 URL":"","Line 259 Text":"","Line 259 URL":"","Line 260 Text":"","Line 260 URL":"","Line 261 Text":"","Line 261 URL":"","Line 262 Text":"","Line 262 URL":"","Line 263 Text":"","Line 263 URL":"","Line 264 Text":"","Line 264 URL":"","Line 265 Text":"","Line 265 URL":"","Line 266 Text":"","Line 266 URL":"","Line 267 Text":"","Line 267 URL":"","Line 268 Text":"","Line 268 URL":"","Line 269 Text":"","Line 269 URL":"","Line 270 Text":"","Line 270 URL":"","Line 271 Text":"","Line 271 URL":"","Line 272 Text":"","Line 272 URL":"","Line 273 Text":"","Line 273 URL":"","Line 274 Text":"","Line 274 URL":"","Line 275 Text":"","Line 275 URL":"","Line 276 Text":"","Line 276 URL":"","Line 277 Text":"","Line 277 URL":"","Line 278 Text":"","Line 278 URL":"","Line 279 Text":"","Line 279 URL":"","Line 280 Text":"","Line 280 URL":"","Line 281 Text":"","Line 281 URL":"","Line 282 Text":"","Line 282 URL":"","Line 283 Text":"","Line 283 URL":"","Line 284 Text":"","Line 284 URL":"","Line 285 Text":"","Line 285 URL":"","Line 286 Text":"","Line 286 URL":"","Line 287 Text":"","Line 287 URL":"","Line 288 Text":"","Line 288 URL":"","Line 289 Text":"","Line 289 URL":"","Line 290 Text":"","Line 290 URL":"","Line 291 Text":"","Line 291 URL":"","Line 292 Text":"","Line 292 URL":"","Line 293 Text":"","Line 293 URL":"","Line 294 Text":"","Line 294 URL":"","Line 295 Text":"","Line 295 URL":"","Line 296 Text":"","Line 296 URL":"","Line 297 Text":"","Line 297 URL":"","Line 298 Text":"","Line 298 URL":"","Line 299 Text":"","Line 299 URL":"","Line 300 Text":"","Line 300 URL":""}},
 {"name":"YEP_DynamicTitleImages","status":true,"description":"v1.00 Change title images depending on how far along your game\nthe player has progressed.","parameters":{"RequireSaveGame":"true"}},
 {"name":"YEP_FootstepSounds","status":true,"description":"v1.01 Set footstep sounds to play when the player and/or\r\nevents walk over specific tiles.","parameters":{"---Default---":"","Default Sound":"Cursor1","Default Volume":"3","Default Pitch":"50","---Player Settings---":"","Player Enable":"true","Player Volume":"1.00","Player Pitch":"1.00","---Event Settings---":"","Event Enable":"true","Event Volume":"1.00","Distance Volume":"-0.10","Event Pitch":"1.00","Distance Pitch":"-0.00","Distance Pan":"10"}},
 {"name":"YEP_GabWindow","status":true,"description":"v1.06 The Gab Window functions as a window for random\r\njibber jabber that does not require a message window.","parameters":{"---General---":"","Gab Font Name":"GameFont","Gab Font Size":"28","Character X Pos":"36","Character Y Pos":"60","Base Wait Time":"90","Time Per Character":"4","Fade Rate":"16","Anti-Repeat":"true","---Map---":"","Map Y Location":"96","Map Dim Color 1":"rgba(0, 0, 0, 0.6)","Map Dim Color 2":"rgba(0, 0, 0, 0.3)","---Battle---":"","Battle Y Location":"108","Battle Dim Color 1":"rgba(0, 0, 0, 0.6)","Battle Dim Color 2":"rgba(0, 0, 0, 0)"}},
